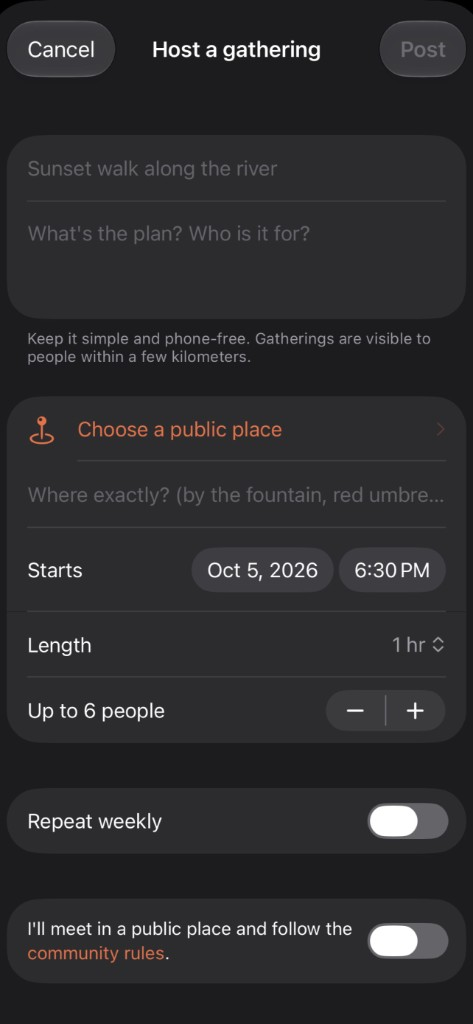
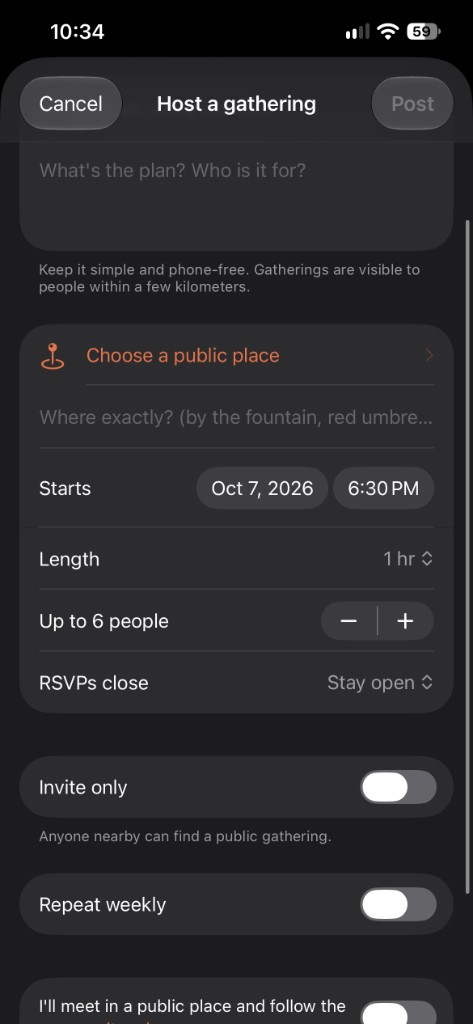
Round Tonight's temperature to a whole degree, and refresh the README screenshots.

diff --git a/ios/OffHours/Services/WeatherProvider.swift b/ios/OffHours/Services/WeatherProvider.swift
@@ -27,6 +27,15 @@ enum WeatherProvider {
 
     static let legalPage = URL(string: "https://weatherkit.apple.com/legal-attribution.html")!
 
+    /// Whole degrees in the person's temperature unit. The default measurement style keeps the raw precision.
+    nonisolated static func temperatureLabel(_ temperature: Measurement<UnitTemperature>) -> String {
+        temperature.formatted(.measurement(
+            width: .narrow,
+            usage: .weather,
+            numberFormatStyle: .number.precision(.fractionLength(0))
+        ))
+    }
+
     static func conditions(at location: CLLocation, now: Date = .now, fresh: Bool = false) async -> (EveningConditions, Attribution?) {
         let sunset = SunCalculator.sunset(
             on: now,
@@ -66,8 +75,7 @@ enum WeatherProvider {
         } else {
             .clear
         }
-        let temperature = current.temperature.formatted(.measurement(width: .narrow, usage: .weather))
-        conditions.summary = "\(temperature) · \(current.condition.description)"
+        conditions.summary = "\(temperatureLabel(current.temperature)) · \(current.condition.description)"
         conditions.symbol = current.symbolName
         lastProblem = nil
 

diff --git a/ios/OffHoursTests/EveningTests.swift b/ios/OffHoursTests/EveningTests.swift
@@ -141,3 +141,12 @@ struct WeekAndWidgetTests {
         #expect(ActivityLibrary.all.count >= 60)
     }
 }
+
+struct WeatherLabelTests {
+    @Test func temperatureRoundsToAWholeDegree() {
+        let label = WeatherProvider.temperatureLabel(Measurement(value: 11.856191, unit: .celsius))
+        let digits = label.filter(\.isNumber)
+        #expect(digits == "12" || digits == "53")
+        #expect(label.contains("°"))
+    }
+}

diff --git a/README.md b/README.md
@@ -8,13 +8,15 @@ product, design, SwiftUI client, Supabase backend, push infrastructure, moderati
 release.
 
 <p align="center">
-  <img src="docs/images/tonight.png" width="200" alt="Tonight: one suggestion for the evening">
-  <img src="docs/images/session.png" width="200" alt="Activity timer that continues on the Lock Screen">
-  <img src="docs/images/journal.png" width="200" alt="Journal with streaks and minutes offline">
-  <img src="docs/images/host-gathering.png" width="200" alt="Hosting a weekly gathering">
+  <img src="docs/images/tonight.png" width="200" alt="Tonight, with the weather and one suggestion">
+  <img src="docs/images/check-in.png" width="200" alt="Check-in for time, energy, budget, and company">
+  <img src="docs/images/tonight-more.png" width="200" alt="More like this, add to calendar, and a gathering nearby">
+  <img src="docs/images/host-gathering.png" width="200" alt="Hosting a gathering, with an RSVP deadline and invite-only">
 </p>
 <p align="center">
-  <img src="docs/images/widget.png" width="340" alt="Home Screen widget">
+  <img src="docs/images/settings.png" width="200" alt="Settings for the daily nudge and what usually fits">
+  <img src="docs/images/interests.png" width="200" alt="Interest chips that shape Tonight">
+  <img src="docs/images/journal.png" width="200" alt="Journal before the first evening is logged">
 </p>
 
 ## Highlights
@@ -23,9 +25,11 @@ release.
   third-party UI code. The project is generated with XcodeGen.
 - **WidgetKit and ActivityKit**: a Home Screen and Lock Screen widget that shares data with the
   app through an App Group, and a Live Activity countdown on the Lock Screen and Dynamic Island.
-- **Context-aware suggestions**: picks are deterministic per person and day, so a notification
-  scheduled days ahead matches what the app shows. WeatherKit and an on-device sunset calculation
-  move outdoor ideas aside on rainy or dark evenings.
+- **Context-aware suggestions**: a check-in for time, energy, budget, and company tunes Tonight,
+  and lasting preferences (quieter, closer, indoor, free) stay on the device. Picks are
+  deterministic per person and day, so a notification scheduled days ahead matches what the app
+  shows. WeatherKit and an on-device sunset calculation move outdoor ideas aside on rainy or dark
+  evenings.
 - **Real places, not a database of them**: MapKit finds the nearest park, café, library, museum or
   waterfront on device.
 - **Supabase backend secured by row level security** on every table. Location-based queries,
